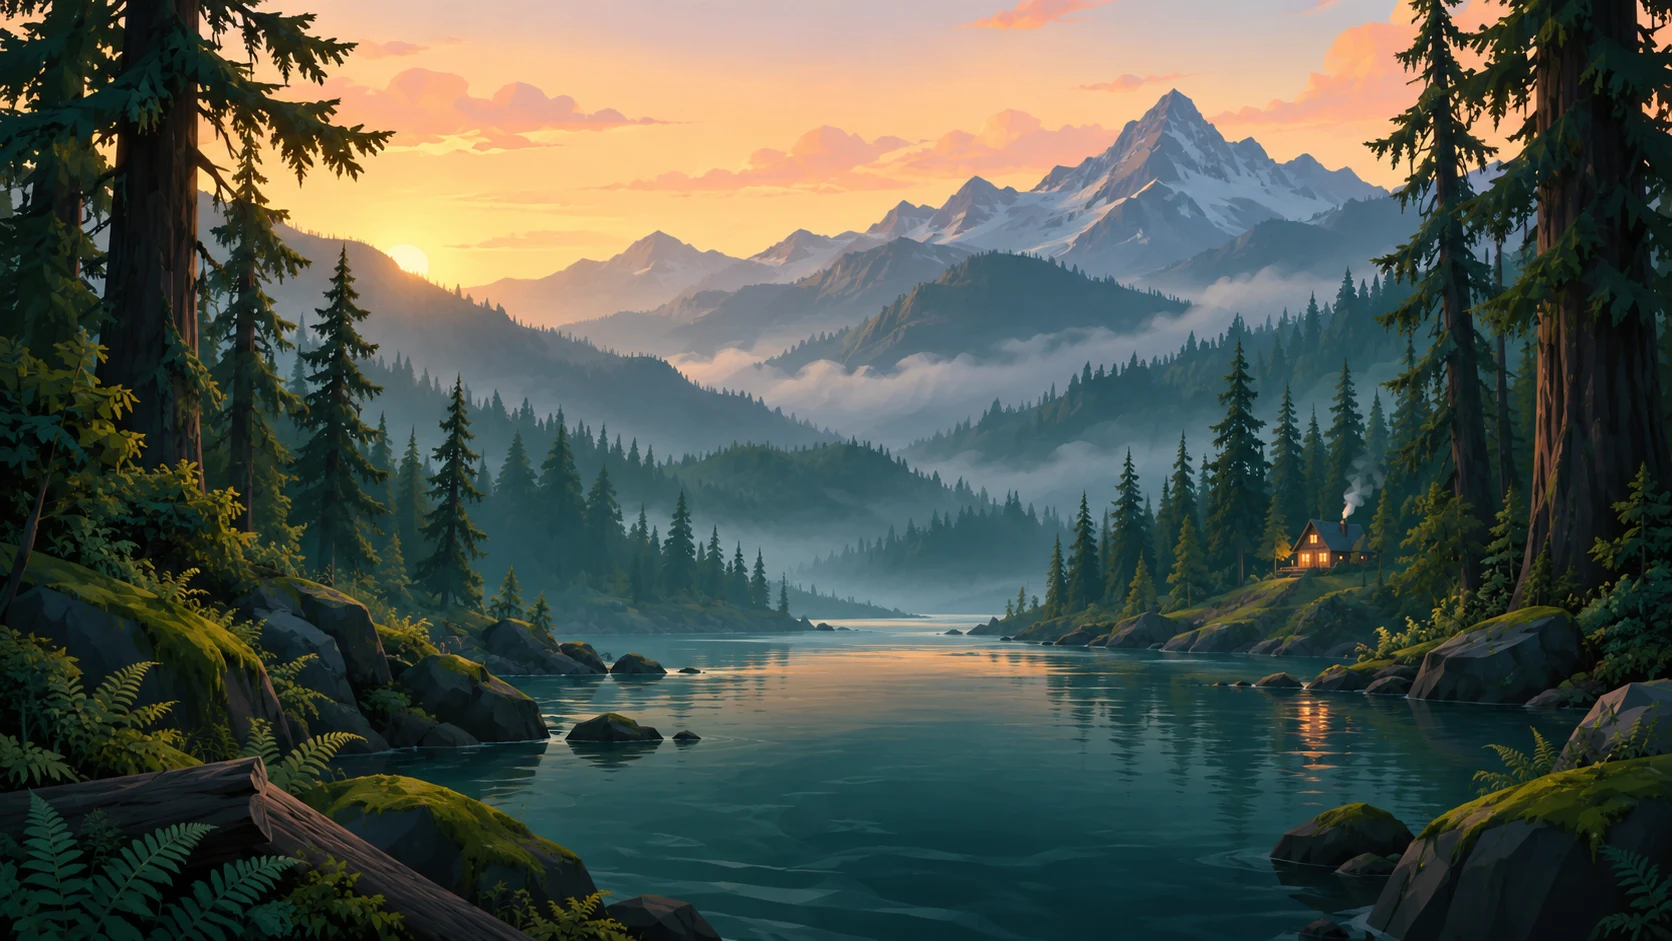
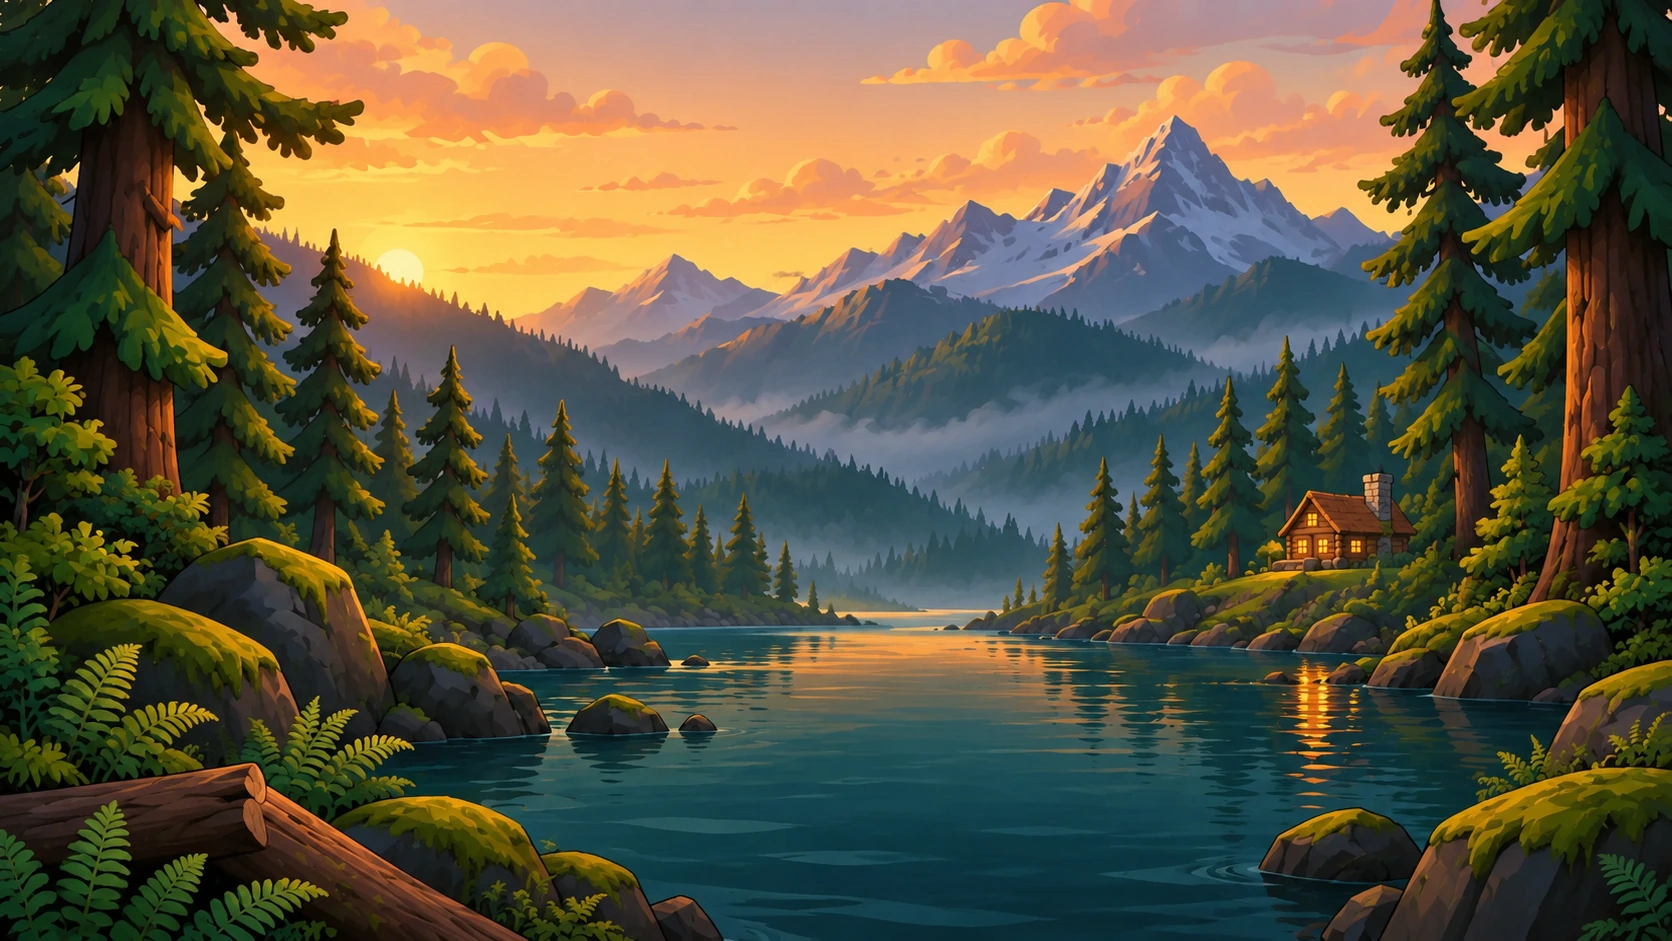
Restyle the shared entry landscape as a storybook wilderness

diff --git a/apps/client/src/gallery/backdrop.tsx b/apps/client/src/gallery/backdrop.tsx
@@ -1,0 +1,61 @@
+import { flushSync } from 'react-dom';
+import { createRoot } from 'react-dom/client';
+import { PaintingBackdrop } from '../backdrop/PaintingBackdrop';
+
+/** Review the actual shared seasonal painting without an account or game world. */
+export async function showBackdrop(canvas: HTMLCanvasElement): Promise<void> {
+  canvas.hidden = true;
+  const container = document.createElement('div');
+  document.body.append(container);
+  const root = createRoot(container);
+  flushSync(() =>
+    root.render(
+      <>
+        <PaintingBackdrop />
+        <aside
+          style={{
+            position: 'fixed',
+            bottom: 20,
+            left: 20,
+            right: 20,
+            width: 'fit-content',
+            maxWidth: 'calc(100vw - 40px)',
+            padding: '12px 16px',
+            background: '#f8edcf',
+            color: '#2f2210',
+            border: '2px solid #273b28',
+            borderRadius: 7,
+            zIndex: 1,
+            font: '14px/1.5 system-ui,sans-serif',
+          }}
+        >
+          <strong>Storybook valley</strong>
+          <nav
+            aria-label="Backdrop season"
+            style={{ display: 'flex', flexWrap: 'wrap', gap: 14, marginTop: 5 }}
+          >
+            {(['spring', 'summer', 'autumn', 'winter'] as const).map((season) => (
+              <a
+                key={season}
+                href={`?gallery=backdrop&season=${season}`}
+                style={{ color: '#304d3e' }}
+              >
+                {season.charAt(0).toUpperCase() + season.slice(1)}
+              </a>
+            ))}
+          </nav>
+        </aside>
+      </>,
+    ),
+  );
+  await container.querySelector<HTMLImageElement>('.painting-image')?.decode();
+  document.body.dataset.galleryReady = 'true';
+  window.addEventListener(
+    'pagehide',
+    () => {
+      root.unmount();
+      container.remove();
+    },
+    { once: true },
+  );
+}

diff --git a/apps/client/src/backdrop/backdrop-world.ts b/apps/client/src/backdrop/backdrop-world.ts
@@ -26,17 +26,16 @@ export const PAINTING_HEIGHT = 941;
 /** Where things are in the painting. */
 export const SPOTS = {
   /** The top of the cabin's chimney, where the smoke starts. */
-  chimney: { x: 1344, y: 517 },
+  chimney: { x: 1378, y: 473 },
   /** The glowing windows and lamps of the cabin, each with how far its light spreads. */
   windows: [
-    { x: 1314, y: 540, radius: 20 },
-    { x: 1308, y: 557, radius: 24 },
-    { x: 1323, y: 557, radius: 24 },
-    { x: 1340, y: 557, radius: 13 },
-    { x: 1362, y: 557, radius: 13 },
+    { x: 1312, y: 520, radius: 16 },
+    { x: 1304, y: 549, radius: 18 },
+    { x: 1324, y: 549, radius: 18 },
+    { x: 1356, y: 548, radius: 18 },
   ],
   /** The cabin's light, lying on the water below it. */
-  reflection: { x: 1312, top: 698, bottom: 762 },
+  reflection: { x: 1310, top: 665, bottom: 755 },
   /** The bands of mist the painting already has: where a drifting patch may wander. */
   mist: [
     { left: 560, right: 1500, top: 330, bottom: 470, width: 520, height: 120 },

diff --git a/apps/client/src/gallery/gallery.ts b/apps/client/src/gallery/gallery.ts
@@ -337,6 +337,11 @@ const SCENERY: readonly { kind: PropKindId; x: number; z: number; scale: number 
 export async function startGallery(canvas: HTMLCanvasElement): Promise<void> {
   const params = new URLSearchParams(window.location.search);
   const focus = params.get('gallery') ?? '';
+  if (focus === 'backdrop') {
+    const { showBackdrop } = await import('./backdrop');
+    await showBackdrop(canvas);
+    return;
+  }
   if (focus === 'icons') {
     const { showItemIcons } = await import('./item-icons');
     showItemIcons(canvas);

diff --git a/docs/design/storybook-backdrop.md b/docs/design/storybook-backdrop.md
@@ -1,0 +1,44 @@
+# Storybook entry landscape
+
+The shared title, sign-in, character-entry and loading landscape now uses the
+painted icons' dimensional cartoon style. Chunky evergreen tiers, broad rock
+planes, warm timber and a welcoming cabin keep the same mountain-lake setting,
+with a quiet central valley for the interface.
+
+The image remains 1672 × 941 pixels and is encoded as a 293 KB WebP. The cabin
+smoke, window glow and reflected light were re-anchored to the new painting.
+The existing seasonal grading, lake detection, motion pacing and reduced-motion
+behavior remain. The lake detector finds 4,982 candidate points; sampled banks,
+cabin and sky remain outside its ice mask.
+
+Open `/?gallery=backdrop` to inspect the actual shared painting, then select a
+season. The gallery uses the production backdrop and its effects.
+
+## Review
+
+Matched before/after captures use the actual React entry and loading components
+with controlled sample state and a fixed calendar. They cover title, sign-in
+choices, character, loading, retry and trouble screens at 1366 × 768,
+1920 × 1080 and 900 × 600, plus four seasons with normal and reduced motion.
+They do not exercise online sign-in or world routing, or measure game frame rate.
+
+Astra approved the illustration and rendered layouts after the cabin-window
+anchor correction. The 52 backdrop/season/pacing tests, TypeScript, lint,
+formatting, asset licenses and client build passed. The production backdrop
+gallery passed all four seasonal views, normal-motion changes and reduced-motion
+stillness without page errors.
+
+| View    | Before                                                       | After                                                      |
+| ------- | ------------------------------------------------------------ | ---------------------------------------------------------- |
+| Title   | [Before](../previews/storybook-backdrop/before-title.webp)   | [After](../previews/storybook-backdrop/after-title.webp)   |
+| Loading | [Before](../previews/storybook-backdrop/before-loading.webp) | [After](../previews/storybook-backdrop/after-loading.webp) |
+
+Additional views: [narrow character entry](../previews/storybook-backdrop/after-character-narrow.webp),
+[narrow retry](../previews/storybook-backdrop/after-error-narrow.webp),
+[spring](../previews/storybook-backdrop/after-spring.webp),
+[autumn](../previews/storybook-backdrop/after-autumn.webp), and
+[winter](../previews/storybook-backdrop/after-winter.webp).
+
+The illustration was generated with OpenAI image generation using the previous
+landscape and approved shelter icons as references. Its source is recorded in
+`assets/LICENSES.csv`; no additional model, font or runtime effect is required.

diff --git a/README.md b/README.md
@@ -263,6 +263,9 @@ character screen and the loading screen. Your own machine and the browser tests
 skip the front page; previews and the real game show it. See
 [decision 0103](docs/decisions/0103-the-front-door.md).
 
+The shared landscape uses the painted icons' warm storybook style. Inspect it
+in the [backdrop gallery](docs/design/storybook-backdrop.md) at `/?gallery=backdrop`.
+
 The painting is alive and follows the seasons. Mist drifts, the lake glints,
 smoke rises from the chimney, the cabin window glows and the camera moves very
 slowly. In autumn the leaves turn gold and red and fall, in winter the trees go
